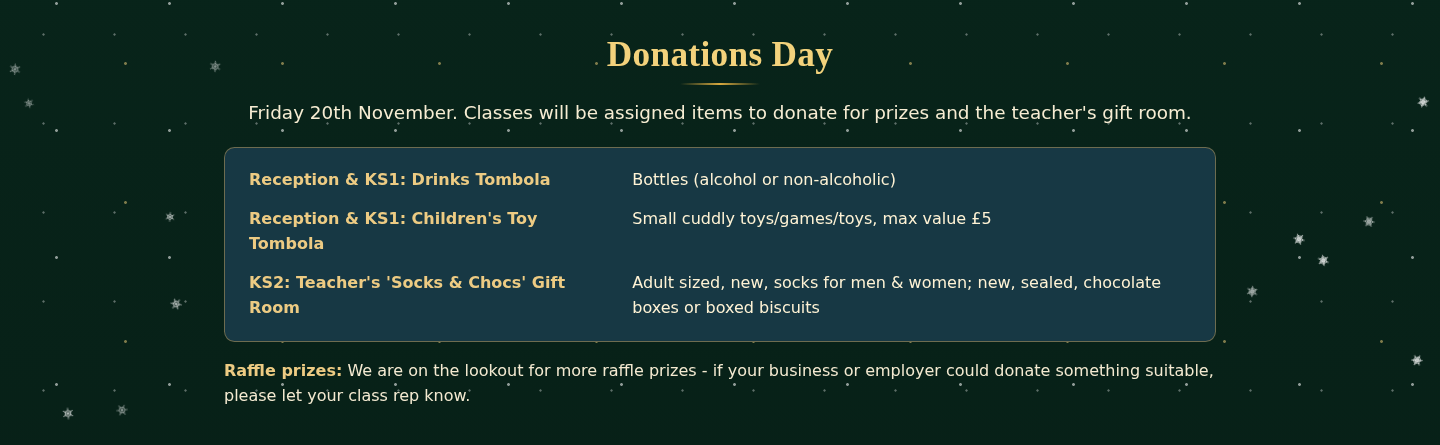
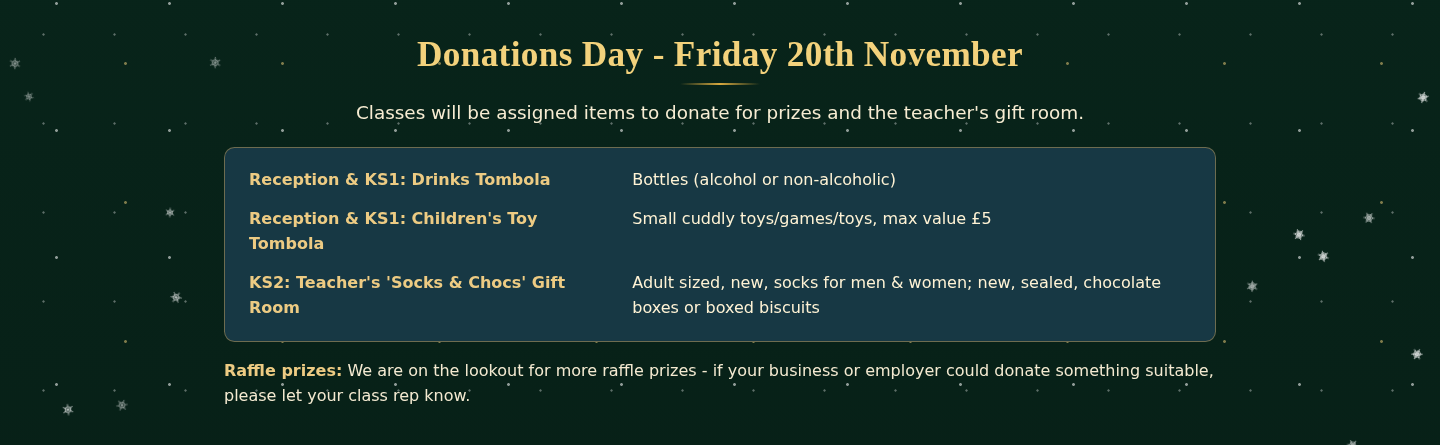
[CF-Pages-Skip] Put Donations Day date in its heading

diff --git a/tests/e2e/donations-day.spec.ts b/tests/e2e/donations-day.spec.ts
@@ -11,6 +11,8 @@ for (const width of [320, 390, 768, 1440]) for (const theme of ['day', 'night'])
   await page.goto('/events/christmas-fayre-2026/');
   if (scale === 200) await page.addStyleTag({content: 'html{font-size:200%!important}'});
   const section = page.locator('section[aria-labelledby="xmas-donations-title"]');
+  await expect(section.getByRole('heading')).toHaveText('Donations Day - Friday 20th November');
+  await expect(section.locator('.xmas-section__lead')).not.toContainText('Friday 20th November');
   await expect(section.locator('li')).toHaveCount(3);
   await expect(section).toContainText('Bottles (alcohol or non-alcoholic)');
   await expect(section).toContainText('max value £5');
